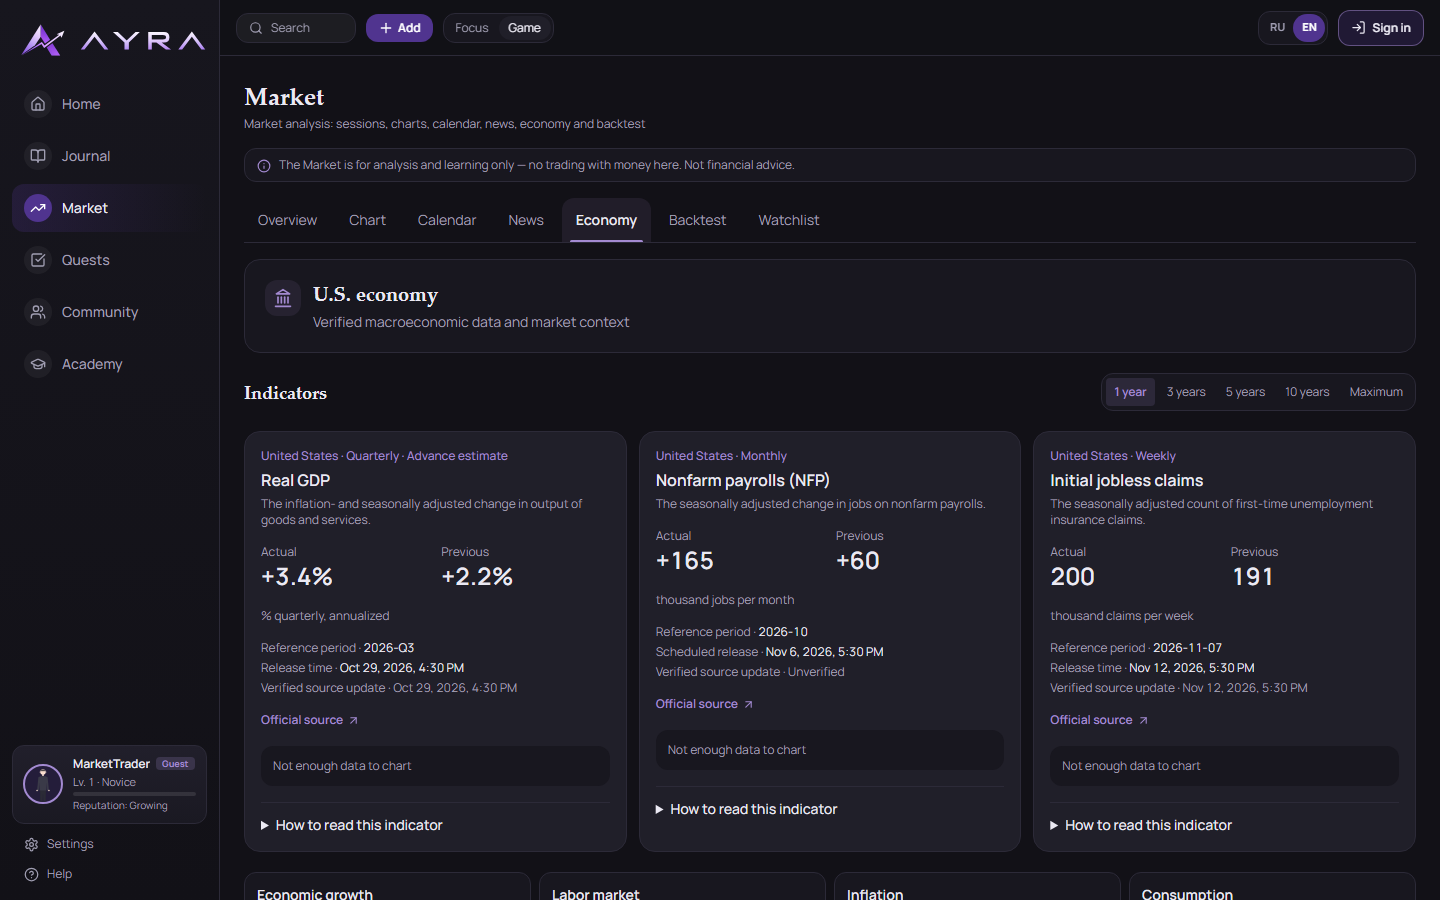
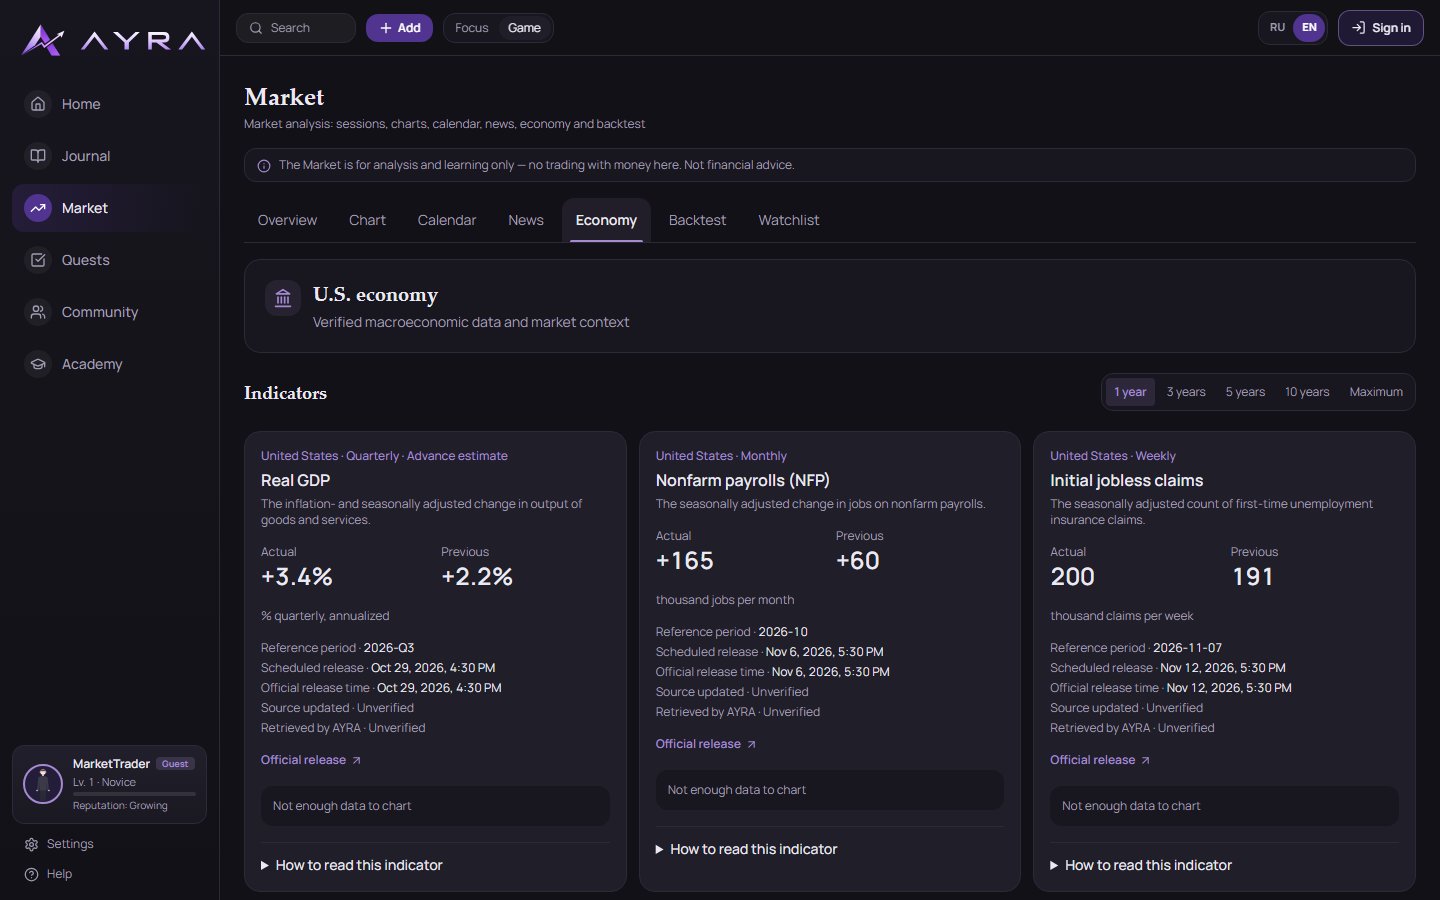
Verify economy release links and distinguish timestamps

diff --git a/lib/market/economy/project-calendar.test.ts b/lib/market/economy/project-calendar.test.ts
@@ -4,7 +4,7 @@ import { economyHistory, projectEconomy, type EconomyCalendarRow } from "./proje
 const starts = "2026-10-29T12:30:00Z";
 const now = Date.parse("2026-11-16");
 const gdp: EconomyCalendarRow = {
-  id: "bea:gdp", source: "bea", country: "us", code: "us_gdp", kind: "release", status: "released",
+  id: "bea:us_gdp:2026-10-29", source: "bea", country: "us", code: "us_gdp", kind: "release", status: "released",
   hidden: false, time_tbd: false, actual: "+3.4%", previous: "+2.2%", starts_at: starts,
   reference_period: "2026-Q3", release_stage: "advance",
   result_meta: { series: "us_gdp", period: "2026-Q3", unit: "percent", adjustment: "official-release", source_updated: starts },
@@ -19,10 +19,30 @@ test("projects one exact GDP release and rejects ambiguous, future and incompati
 });
 
 test("keeps payrolls separate from unemployment and leaves the upstream update unknown", () => {
-  const nfp: EconomyCalendarRow = { ...gdp, id: "bls:nfp", code: "us_nfp", source: "bls",
+  const nfp: EconomyCalendarRow = { ...gdp, id: "bls:us_nfp:2026-11-06", code: "us_nfp", source: "bls",
+    starts_at: "2026-11-06T13:35:00Z",
     actual: "+165K · 4.1%", previous: "4.2%", reference_period: "2026-10", release_stage: "regular",
     result_meta: { period: "2026-10", series: "us_nfp", unit: "thousand-change-and-percent", adjustment: "SA" } };
-  expect(projectEconomy([nfp], now).us_nfp[0]).toMatchObject({ actual: 165, previous: null, confirmedAt: null });
+  expect(projectEconomy([nfp], now).us_nfp[0]).toMatchObject({
+    actual: 165, previous: null, scheduledAt: "2026-11-06T13:35:00Z", releasedAt: "2026-11-06T13:30:00Z",
+    sourceUpdatedAt: null, retrievedAt: null, sourceKind: "release",
+    sourceUrl: "https://www.bls.gov/news.release/archives/empsit_11062026.htm",
+  });
+  expect(projectEconomy([{ ...nfp, id: "bls:unreviewed" }], now).us_nfp[0]).toMatchObject({
+    releasedAt: null, sourceKind: "archive", sourceUrl: "https://www.bls.gov/bls/news-release/empsit.htm",
+  });
+});
+
+test("only reviewed release identities receive a dated URL and official time", () => {
+  const row = { ...gdp, url: "https://untrusted.example", result_meta: { ...gdp.result_meta!, release_url: "https://untrusted.example" } };
+  expect(projectEconomy([row], now).us_gdp[0]).toMatchObject({
+    scheduledAt: starts, releasedAt: starts, sourceUpdatedAt: null, retrievedAt: null, sourceKind: "release",
+    sourceUrl: "https://www.bea.gov/news/2026/gdp-advance-estimate-3rd-quarter-2026",
+  });
+  expect(projectEconomy([{ ...row, release_stage: "second" }], now).us_gdp[0]).toMatchObject({
+    scheduledAt: starts, releasedAt: null, sourceUpdatedAt: null, retrievedAt: null,
+    sourceKind: "archive", sourceUrl: "https://www.bea.gov/news/archive",
+  });
 });
 
 test("skips claims revisions as original observations and keeps GDP stages apart", () => {
@@ -30,6 +50,11 @@ test("skips claims revisions as original observations and keeps GDP stages apart
     actual: "200K", previous: null, reference_period: "2026-11-07", release_stage: "regular",
     result_meta: { period: "2026-11-07", series: "initial-claims", unit: "thousand", adjustment: "SA", source_updated: "2026-11-12T13:30:00Z" } };
   expect(projectEconomy([claims], now).us_jobless_claims).toEqual([]);
+  expect(projectEconomy([{ ...claims, id: "dol:us_jobless_claims:2026-11-12", starts_at: "2026-11-12T13:30:00Z" }], now)
+    .us_jobless_claims[0]).toMatchObject({
+    sourceKind: "release", sourceUrl: "https://oui.doleta.gov/press/2026/111226.pdf",
+    releasedAt: "2026-11-12T13:30:00Z", sourceUpdatedAt: null, retrievedAt: null,
+  });
   const rows = projectEconomy([gdp, { ...gdp, id: "bea:second", release_stage: "second" }], now).us_gdp;
   expect(rows).toHaveLength(2);
   expect(economyHistory(rows, "advance", "max", now)).toHaveLength(1);

diff --git a/lib/market/economy/dictionary.ts b/lib/market/economy/dictionary.ts
@@ -5,8 +5,8 @@ export const economyText = {
     coverage: ["ВВП", "NFP, безработица и первичные заявки", "CPI, Core CPI, PPI и PCE", "Доходы и расходы населения", "Долг, бюджет и обслуживание долга", "ФРС, ставки и доходности Treasury", "Импорт, экспорт и торговый баланс", "Курс и фундаментальные факторы"],
     data: "Показатели", loading: "Загружаем данные…", unavailable: "Данные недоступны", error: "Не удалось обновить данные",
     retry: "Повторить", empty: "Нет подтверждённых данных", actual: "Факт", previous: "Предыдущее", forecast: "Прогноз",
-    period: "Отчётный период", release: "Время релиза", scheduled: "По расписанию релиза", updated: "Подтверждённое обновление источника",
-    source: "Официальный источник", history: "История", historyEmpty: "Недостаточно данных для графика",
+    period: "Отчётный период", release: "Время официальной публикации", scheduled: "По расписанию релиза", updated: "Обновление источника", retrieved: "Получено AYRA",
+    source: "Официальный выпуск", archive: "Официальный архив", history: "История", historyEmpty: "Недостаточно данных для графика",
     historyNote: "По доступным релизам AYRA. Пропущенные периоды показаны разрывами.",
     ranges: ["1 год", "3 года", "5 лет", "10 лет", "Максимум"], timeUnknown: "Не подтверждено",
     stages: { advance: "Первая оценка", second: "Вторая оценка", third: "Третья оценка", regular: "" },
@@ -36,8 +36,8 @@ export const economyText = {
     coverage: ["GDP", "Payrolls, unemployment and initial claims", "CPI, Core CPI, PPI and PCE", "Personal income and spending", "Debt, budget and debt service", "Federal Reserve, rates and Treasury yields", "Imports, exports and trade balance", "Exchange rates and fundamentals"],
     data: "Indicators", loading: "Loading data…", unavailable: "Data unavailable", error: "Could not refresh data",
     retry: "Retry", empty: "No verified data", actual: "Actual", previous: "Previous", forecast: "Forecast",
-    period: "Reference period", release: "Release time", scheduled: "Scheduled release", updated: "Verified source update",
-    source: "Official source", history: "History", historyEmpty: "Not enough data to chart",
+    period: "Reference period", release: "Official release time", scheduled: "Scheduled release", updated: "Source updated", retrieved: "Retrieved by AYRA",
+    source: "Official release", archive: "Official archive", history: "History", historyEmpty: "Not enough data to chart",
     historyNote: "Based on releases available in AYRA. Missing periods appear as gaps.",
     ranges: ["1 year", "3 years", "5 years", "10 years", "Maximum"], timeUnknown: "Unverified",
     stages: { advance: "Advance estimate", second: "Second estimate", third: "Third estimate", regular: "" },

diff --git a/lib/market/economy/project-calendar.ts b/lib/market/economy/project-calendar.ts
@@ -29,6 +29,23 @@ const definitions = {
     period: /^\d{4}-\d{2}-\d{2}$/, value: /^(\d+(?:\.\d+)?)K$/, stages: ["regular"] },
 };
 
+const officialArchives: Record<EconomyCode, string> = {
+  us_gdp: "https://www.bea.gov/news/archive",
+  us_nfp: "https://www.bls.gov/bls/news-release/empsit.htm",
+  us_jobless_claims: "https://oui.doleta.gov/unemploy/archive.asp",
+};
+
+// These links and release times were checked in the dated bulletins.
+// Calendar dates and URL fields cannot establish a new entry in this list.
+const verifiedReleases = {
+  us_gdp: { id: "bea:us_gdp:2026-10-29", period: "2026-Q3", stage: "advance", releasedAt: "2026-10-29T12:30:00Z",
+    url: "https://www.bea.gov/news/2026/gdp-advance-estimate-3rd-quarter-2026" },
+  us_nfp: { id: "bls:us_nfp:2026-11-06", period: "2026-10", stage: "regular", releasedAt: "2026-11-06T13:30:00Z",
+    url: "https://www.bls.gov/news.release/archives/empsit_11062026.htm" },
+  us_jobless_claims: { id: "dol:us_jobless_claims:2026-11-12", period: "2026-11-07", stage: "regular", releasedAt: "2026-11-12T13:30:00Z",
+    url: "https://oui.doleta.gov/press/2026/111226.pdf" },
+} satisfies Record<EconomyCode, { id: string; period: string; stage: string; releasedAt: string; url: string }>;
+
 export type Observation = {
   id: string;
   code: EconomyCode;
@@ -37,8 +54,11 @@ export type Observation = {
   actual: number;
   previous: number | null;
   scheduledAt: string;
-  confirmedAt: string | null;
+  releasedAt: string | null;
+  sourceUpdatedAt: string | null;
+  retrievedAt: string | null;
   sourceUrl: string;
+  sourceKind: "release" | "archive";
 };
 
 function formatNumber(raw: string | null, pattern: RegExp): number | null {
@@ -68,13 +88,14 @@ export function projectEconomy(rows: EconomyCalendarRow[], now: number): Record<
       if (code !== "us_nfp" && Date.parse(meta.source_updated ?? "") !== start) continue;
       const actual = formatNumber(row.actual, definition.value);
       if (actual === null) continue;
-      const day = new Date(start).toISOString().slice(0, 10).split("-");
-      const sourceUrl = code === "us_nfp" ? `https://www.bls.gov/news.release/archives/empsit_${day[1]}${day[2]}${day[0]}.htm`
-        : code === "us_gdp" ? "https://www.bea.gov/data/gdp/gross-domestic-product"
-        : "https://oui.doleta.gov/unemploy/archive.asp";
-      const item = { id: row.id, code, period, stage, actual,
+      const checked = verifiedReleases[code];
+      const release = checked.id === row.id && checked.period === period && checked.stage === stage ? checked : null;
+      const item: Observation = { id: row.id, code, period, stage, actual,
         previous: formatNumber(row.previous, code === "us_nfp" ? /^([+−-]?\d+)K$/ : definition.value),
-        scheduledAt: row.starts_at, confirmedAt: code === "us_nfp" ? null : row.starts_at, sourceUrl };
+        scheduledAt: row.starts_at, releasedAt: release?.releasedAt ?? null,
+        // BEA and DOL use source_updated as release-version evidence. Receipt is not recorded.
+        sourceUpdatedAt: null, retrievedAt: null,
+        sourceUrl: release?.url ?? officialArchives[code], sourceKind: release ? "release" : "archive" };
       const key = period + ":" + stage;
       observations.set(key, [...(observations.get(key) ?? []), item]);
     }

diff --git a/components/market/MarketEconomy.tsx b/components/market/MarketEconomy.tsx
@@ -99,10 +99,10 @@ export function MarketEconomy() {
                 <p className="text-xs text-mu">{labels.unit}</p>
                 <div className="space-y-1 text-xs text-mu">
                   <div>{t.period} · <span className="text-tx">{latest.period}</span></div>
-                  <div>{latest.confirmedAt ? t.release : t.scheduled} · <time dateTime={latest.scheduledAt} className="text-tx">{date.format(Date.parse(latest.scheduledAt))}</time></div>
-                  <div>{t.updated} · {latest.confirmedAt ? <time dateTime={latest.confirmedAt}>{date.format(Date.parse(latest.confirmedAt))}</time> : t.timeUnknown}</div>
+                  {([[t.scheduled, latest.scheduledAt], [t.release, latest.releasedAt], [t.updated, latest.sourceUpdatedAt], [t.retrieved, latest.retrievedAt]] as const).map(([label, timestamp]) =>
+                    <div key={label}>{label} · {timestamp ? <time dateTime={timestamp} className="text-tx">{date.format(Date.parse(timestamp))}</time> : t.timeUnknown}</div>)}
                 </div>
-                <a href={latest.sourceUrl} target="_blank" rel="noreferrer" className="inline-flex items-center gap-1 text-xs font-semibold text-vi">{t.source}<ArrowUpRight size={13} aria-hidden="true" /></a>
+                <a href={latest.sourceUrl} target="_blank" rel="noreferrer" className="inline-flex items-center gap-1 text-xs font-semibold text-vi">{latest.sourceKind === "release" ? t.source : t.archive}<ArrowUpRight size={13} aria-hidden="true" /></a>
               </> : <p className="text-sm text-mu">{status === "loading" ? t.loading : t.empty}</p>}
               <History rows={rows} range={range} t={t} format={format} />
               <details className="border-t border-line pt-3 text-sm text-mu">

diff --git a/docs/market-economy-spec.md b/docs/market-economy-spec.md
@@ -144,6 +144,8 @@ BLS v2 даёт 500 запросов/сутки и 50 серий/запрос с
 | NFP | Изменение CES0000000001 за месяц, отдельно от безработицы в той же строке. Дата обновления API в календарной записи отсутствует | Октябрь 2026, +165 тыс. рабочих мест, предыдущее +60 тыс. в ноябрьском выпуске. [Релиз BLS](https://www.bls.gov/news.release/archives/empsit_11062026.htm) |
 | Initial Claims | Недельные первые заявки, SA, только строки с меткой того же датированного выпуска. Предыдущее значение может быть официально пересмотрено в этом релизе | Неделя до 7 ноября, 200 тыс., предыдущее 191 тыс. [Релизы DOL](https://www.dol.gov/newsroom/releases/ETA) |
 
+Карточки различают время по расписанию и официальное время из проверенного датированного бюллетеня. Для выпуска вне списка сверенных ID, периодов и стадий ссылка ведёт на официальный архив, а время публикации обозначается как неподтверждённое. `result_meta.source_updated` у BEA и DOL служит меткой версии релиза. Время изменения данных у источника и время получения AYRA отдельно не доказаны и отображаются как «Не подтверждено». [Датированный бюллетень DOL](https://oui.doleta.gov/press/2026/111226.pdf)
+
 Безработица, CPI/Core CPI, PPI, PCE, доходы и расходы, торговля, госфинансы, ставки, доходности и сила USD остаются в структуре без числовых карточек в этом PR. Подтверждённых прогнозов для трёх карточек сейчас нет. История строится по выпускам одной серии и стадии. С одним наблюдением показывается состояние недостатка данных.
 
 Следующие этапы для отдельного ревью идут в таком порядке.
